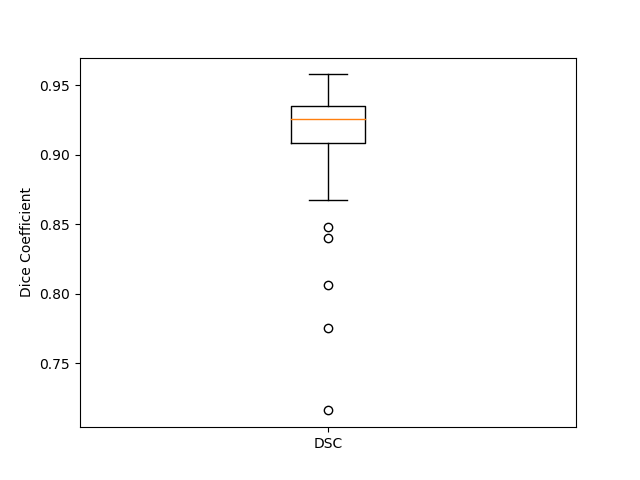
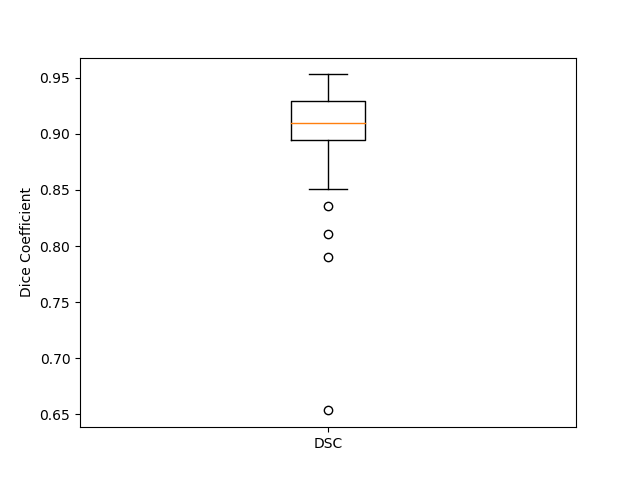
Gets kfold validation working
Run kfold.py and pass the input data file and output directories and it
will do a 5 way k fold with a train: 0.7 val: 0.1 test: 0.2 split.
Updates run_evaluation_onTIF.py to not put a png in the root directory,
but rather put it in the prediction directory that you specified
earlier.

diff --git a/kfold.py b/kfold.py
@@ -1,3 +1,4 @@
+import os
 from argparse import ArgumentParser
 from collections import namedtuple
 from pathlib import Path
@@ -6,61 +7,35 @@ import numpy as np
 import tables
 from sklearn.model_selection import KFold, train_test_split
 
+from unet3d.utils import pickle_dump
 
-ThreewayKFold = namedtuple('ThreewayKFold', 'train_xs val_xs test_xs train_ys val_ys test_ys')
+ThreewayKFold = namedtuple('ThreewayKFold', 'train_indices val_indices test_indices')
 
 
 def main():
     args = parse_args()
-    data_file = tables.open_file(args.input_file)
 
-    kfold = kfold_with_train_val_and_test(
-        xs=np.array(data_file.root.imdata),
-        ys=np.array(data_file.root.truth)
-    )
+    with tables.open_file(args.input_file) as data_file:
+        kfold_indices = get_kfold_indices(
+            xs=np.array(data_file.root.imdata),
+            ys=np.array(data_file.root.truth)
+        )
 
     kfold_directory = create_output_directory(
         input_file_path=Path(args.input_file),
         containing_dir_path=Path(args.output_dir)
     )
 
-    save_kfold(kfold_directory, kfold)
-
-
-    # for fold_index in range(len(kfold.train_xs)):
-
+    save_kfold_indices(kfold_directory, kfold_indices)
 
 
 def parse_args():
     parser = ArgumentParser()
 
     parser.add_argument('input_file', help='Input .h5 file')
-    parser.add_argument('output_dir', help='Output directory for kfold split h5 files')
+    parser.add_argument('output_dir', help='Directory where dir of kfold files will be created')
 
     return parser.parse_args()
-
-
-def kfold_with_train_val_and_test(xs, ys):
-    kfold_indices = get_kfold_indices(xs, ys)
-
-    train_xs = []
-    val_xs = []
-    test_xs = []
-
-    train_ys = []
-    val_ys = []
-    test_ys = []
-
-    for train, val, test in zip(*kfold_indices):
-        train_xs.append(xs[train])
-        val_xs.append(xs[val])
-        test_xs.append(xs[test])
-
-        train_ys.append(ys[train])
-        val_ys.append(ys[val])
-        test_ys.append(ys[test])
-
-    return ThreewayKFold(train_xs, val_xs, test_xs, train_ys, val_ys, test_ys)
 
 
 def get_kfold_indices(xs, ys):
@@ -68,7 +43,7 @@ def get_kfold_indices(xs, ys):
     sets_of_training_val_indices = []
     sets_of_test_indices = []
 
-    kf = KFold(n_splits=5)
+    kf = KFold(n_splits=5, shuffle=True)
     for train_indices, test_indices in kf.split(xs, ys):
         train_train_indices, train_val_indices = train_test_split(train_indices, test_size=0.1)
 
@@ -76,20 +51,33 @@ def get_kfold_indices(xs, ys):
         sets_of_training_val_indices.append(train_val_indices)
         sets_of_test_indices.append(test_indices)
 
-    return sets_of_training_train_indices, sets_of_training_val_indices, sets_of_test_indices
+    return ThreewayKFold(sets_of_training_train_indices, sets_of_training_val_indices, sets_of_test_indices)
 
 
 def create_output_directory(input_file_path, containing_dir_path):
-    new_dir_name = input_file_path.stem
+    new_dir_name = f'{input_file_path.stem}_kfold'
     new_output_directory = Path(containing_dir_path, new_dir_name)
-    new_output_directory.mkdir()
+    new_output_directory.mkdir(exist_ok=True)
 
     return new_output_directory
 
 
-def save_kfold(directory, kfold):
-    for fold_number in range(len(kfold.train_xs)):
-        file_name = f'fold'
+def save_kfold_indices(output_dir, kfold_indices):
+    for fold_number in range(len(kfold_indices.train_indices)):
+        base = f'fold_{fold_number}'
+
+        pickle_dump(
+            out_file=os.path.join(output_dir, f'{base}_train.pkl'),
+            item=kfold_indices.train_indices[fold_number]
+        )
+        pickle_dump(
+            out_file=os.path.join(output_dir, f'{base}_val.pkl'),
+            item=kfold_indices.val_indices[fold_number]
+        )
+        pickle_dump(
+            out_file=os.path.join(output_dir, f'{base}_test.pkl'),
+            item=kfold_indices.test_indices[fold_number]
+        )
 
 
 if __name__ == '__main__':

diff --git a/tests/kfold_test.py b/tests/kfold_test.py
@@ -2,7 +2,7 @@ import numpy as np
 
 from unittest import TestCase
 
-from kfold import get_kfold_indices, kfold_with_train_val_and_test
+from kfold import get_kfold_indices
 
 
 class TestKfold(TestCase):
@@ -32,15 +32,3 @@ class TestKfold(TestCase):
 
     def test_get_kfold_indices_should_error_if_input_arrays_lengths_not_equal(self):
         self.assertRaises(ValueError, get_kfold_indices, xs=[1], ys=[2, 3])
-
-    def test_kfold_with_train_val_and_test_should_return_values(self):
-        results = kfold_with_train_val_and_test(self.x, self.y)
-
-        for train_xs, val_xs, test_xs, train_ys, val_ys, test_ys in zip(*results):
-            self.assertTrue(all(t in self.x for t in train_xs))
-            self.assertTrue(all(v in self.x for v in val_xs))
-            self.assertTrue(all(t in self.x for t in test_xs))
-
-            self.assertTrue(all(t in self.y for t in train_ys))
-            self.assertTrue(all(v in self.y for v in val_ys))
-            self.assertTrue(all(t in self.y for t in test_ys))

diff --git a/run_evaluation_onTIF.py b/run_evaluation_onTIF.py
@@ -11,10 +11,10 @@ import matplotlib.pyplot as plt
 
 
 config = dict()
-config['input_dir'] = 'predictions/retry'
+config['input_dir'] = 'predictions/combined_new_thresholding_fold_2'
 config['truth_img'] = 'truth'
 config['prediction_img'] = 'prediction'
-config['output_file'] = 'retry.csv'
+config['output_file'] = 'fold_2.csv'
 
 
 
@@ -62,7 +62,7 @@ def main():
 
     plt.boxplot(list(scores.values()), labels=list(scores.keys()))
     plt.ylabel("Dice Coefficient")
-    plt.savefig("validation_scores_boxplot_test2.png")
+    plt.savefig(os.path.join(config['input_dir'], "validation_scores_boxplot_test2.png"))
     plt.close()
 
     if os.path.exists("./training.log"):

diff --git a/run_prediction.py b/run_prediction.py
@@ -42,10 +42,10 @@ config = dict()
 
 # General Parameters
 
-config["data_file"] = "retry_1.h5"
-config["model_images"] = "from_remote/training_output/combined_remote_20190717-144507/retry_cross.h5"
-config['prediction_folder'] = 'retry_cross'
-config["testing_split"] = 'retry_1_0.2' +'.pkl'
+config["data_file"] = "combined_new_thresholding.h5"
+config["model_images"] = "from_remote/training_output/combined_remote_dice_20190718-130915/combined_new_thresholding_fold_1.h5"
+config['prediction_folder'] = 'combined_new_thresholding_fold_2'
+config["testing_split"] = 'combined_new_thresholding_kfold/fold_2_test.pkl'
 
 
 
